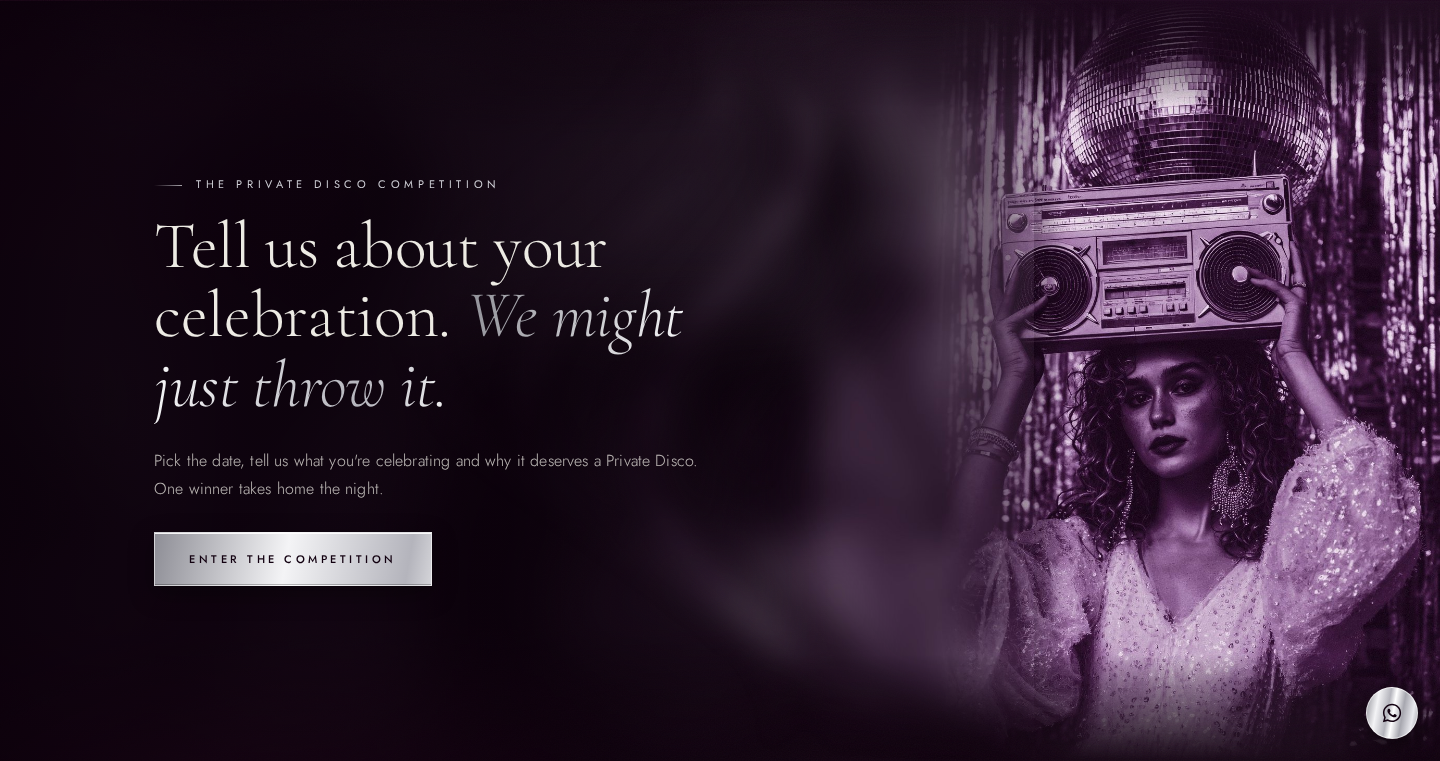
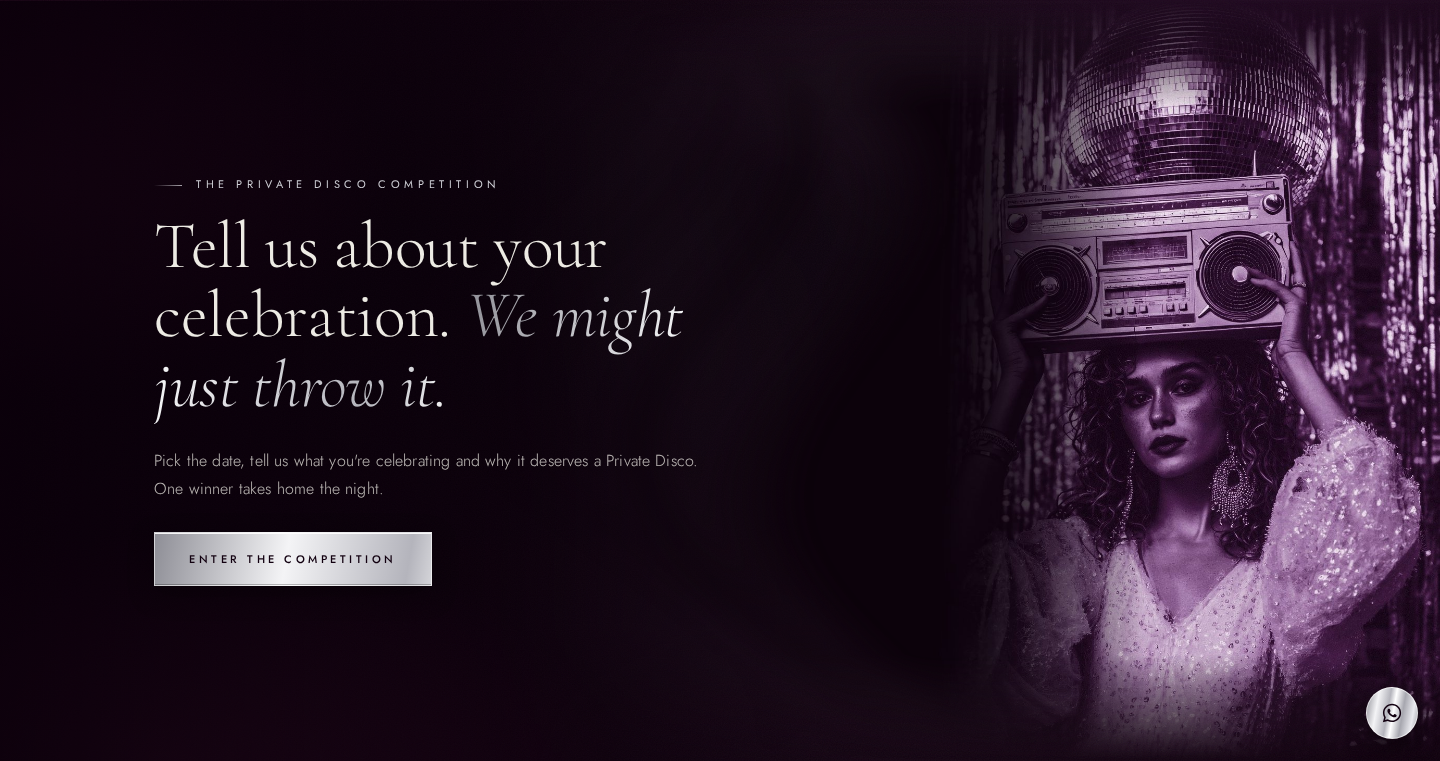
Add files via upload

Changed region(s): [[0.4688, 0.0604, 0.7812, 0.9369], [0.5, 0.2418, 0.5625, 0.3627]]

diff --git a/index.html b/index.html
@@ -12,7 +12,7 @@
 <link rel="icon" href="assets/favicon.png">
 <link rel="preconnect" href="https://fonts.googleapis.com"><link rel="preconnect" href="https://fonts.gstatic.com" crossorigin>
 <link href="https://fonts.googleapis.com/css2?family=Cormorant+Garamond:ital,wght@0,300;0,400;0,500;1,300;1,400;1,500&family=Jost:wght@300;400;500&display=swap" rel="stylesheet">
-<link rel="stylesheet" href="css/style.css?v=20261015112137">
+<link rel="stylesheet" href="css/style.css?v=20261015112802">
 </head>
 <body data-page="home">
 <div id="site-header"></div>
@@ -239,7 +239,7 @@
   <!-- Competition -->
   <section class="who-flow comp-flow">
     <div class="wf-blur" style="background-image:url(assets/photos/boombox-plum.jpg)" aria-hidden="true"></div>
-    <div class="wf-img" role="img" aria-label="Woman in sequins holding a boombox under a mirror ball" style="background-image:url(assets/photos/boombox-wide.jpg)"></div>
+    <div class="wf-img" role="img" aria-label="Woman in sequins holding a boombox under a mirror ball" style="background-image:url(assets/photos/boombox-wide.jpg?v=2)"></div>
     <div class="wrap wf-wrap">
       <div class="wf-text reveal">
         <p class="eyebrow">The Private Disco Competition</p>
@@ -259,7 +259,7 @@
 </main>
 
 <div id="site-footer"></div>
-<script src="js/config.js?v=20261015112137"></script>
-<script src="js/main.js?v=20261015112137"></script>
+<script src="js/config.js?v=20261015112802"></script>
+<script src="js/main.js?v=20261015112802"></script>
 </body>
 </html>

diff --git a/css/style.css b/css/style.css
@@ -968,3 +968,4 @@ html,body{overflow-x:hidden}
 @media (max-width:900px){.comp-flow .wf-img{width:100%;background-size:cover;background-position:center 30%}}
 .comp-flow .wf-img{background-size:cover;background-position:right 30%}
 @media (max-width:900px){.comp-flow .wf-img{background-image:url(../assets/photos/boombox-plum.jpg)!important;background-position:center 30%}}
+.comp-flow .wf-blur{opacity:.35;background-position:right center;background-size:60% auto;background-repeat:no-repeat;filter:blur(60px) brightness(.35)}
